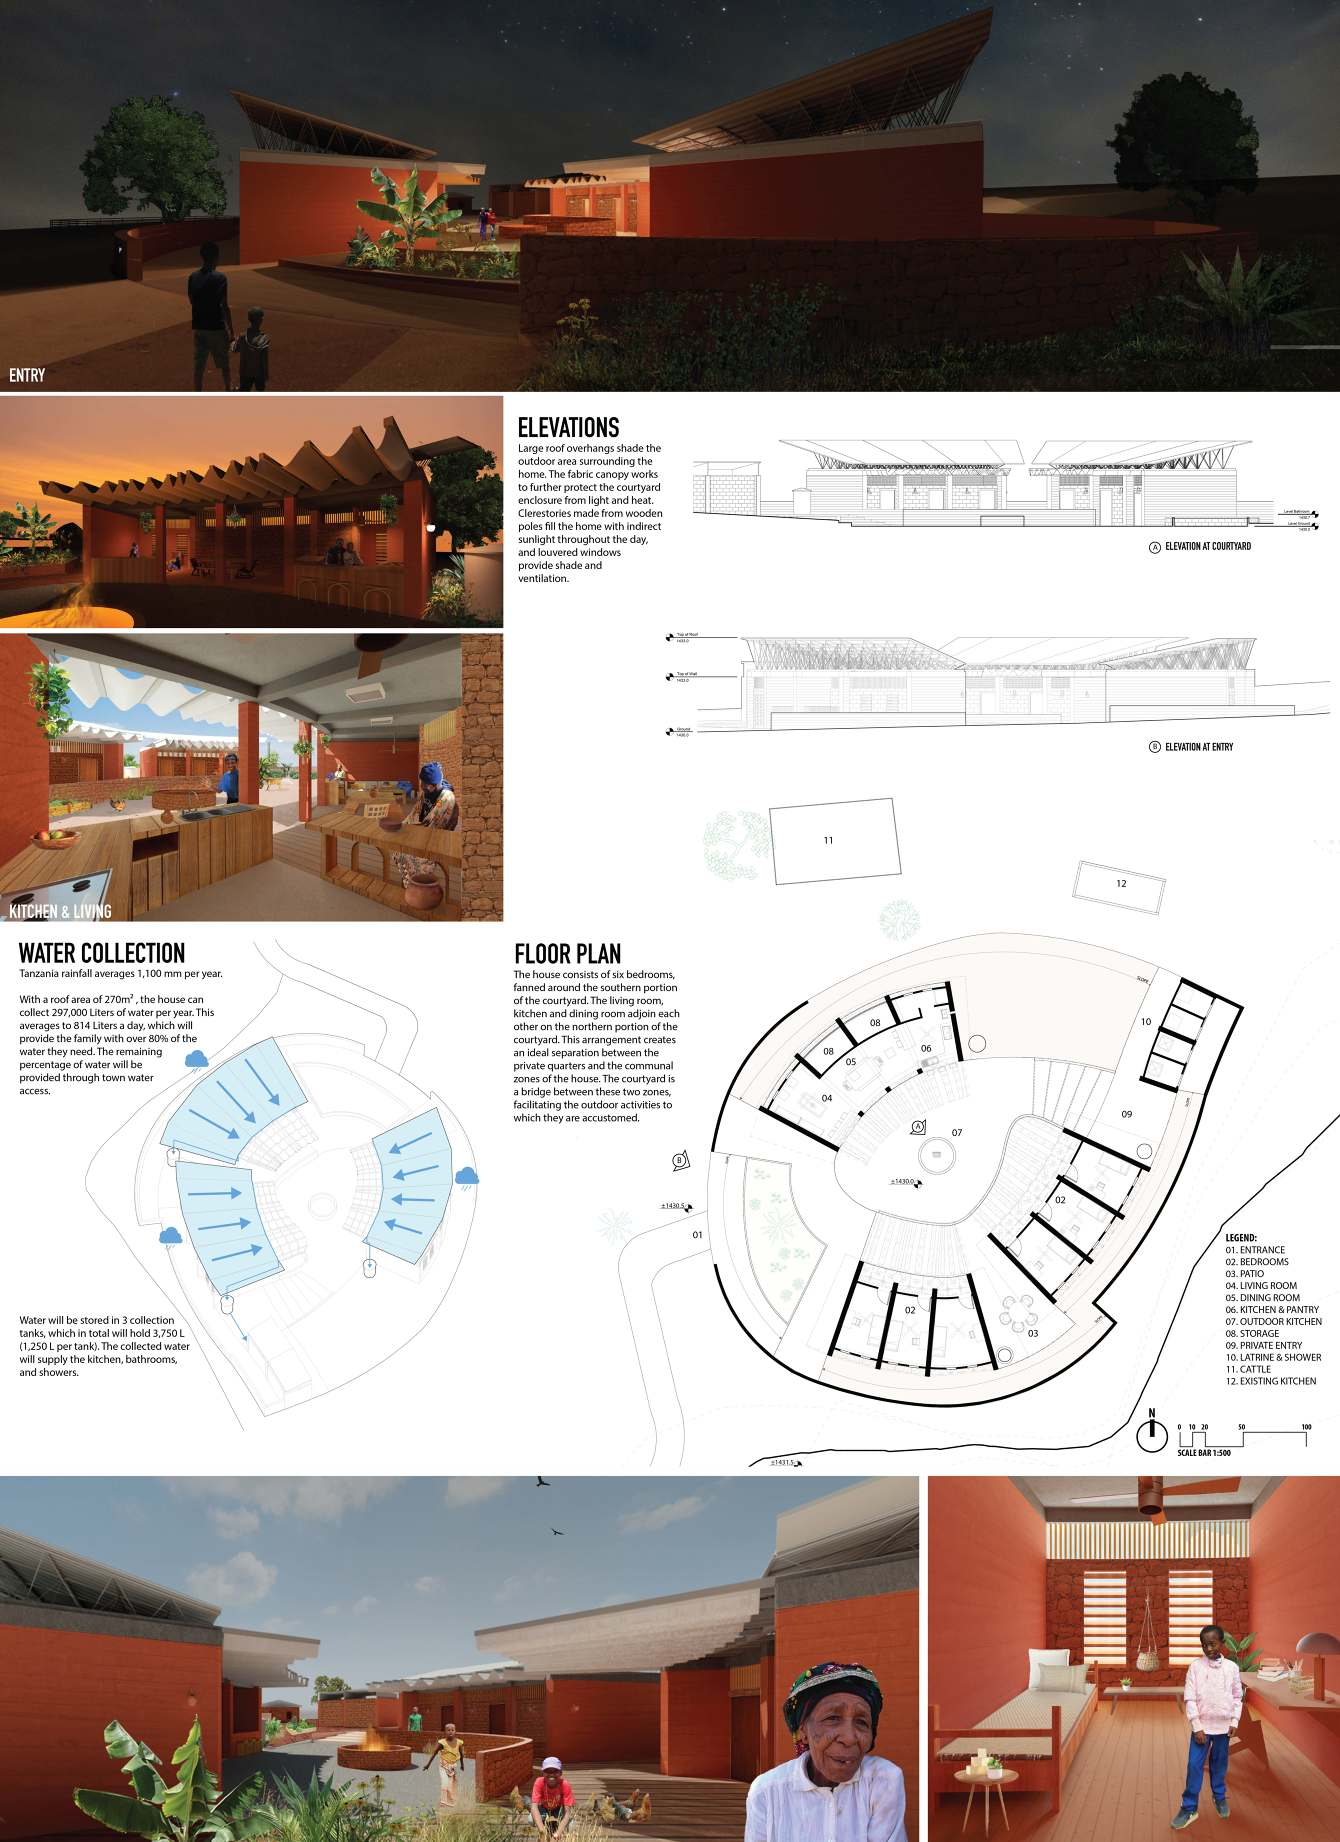
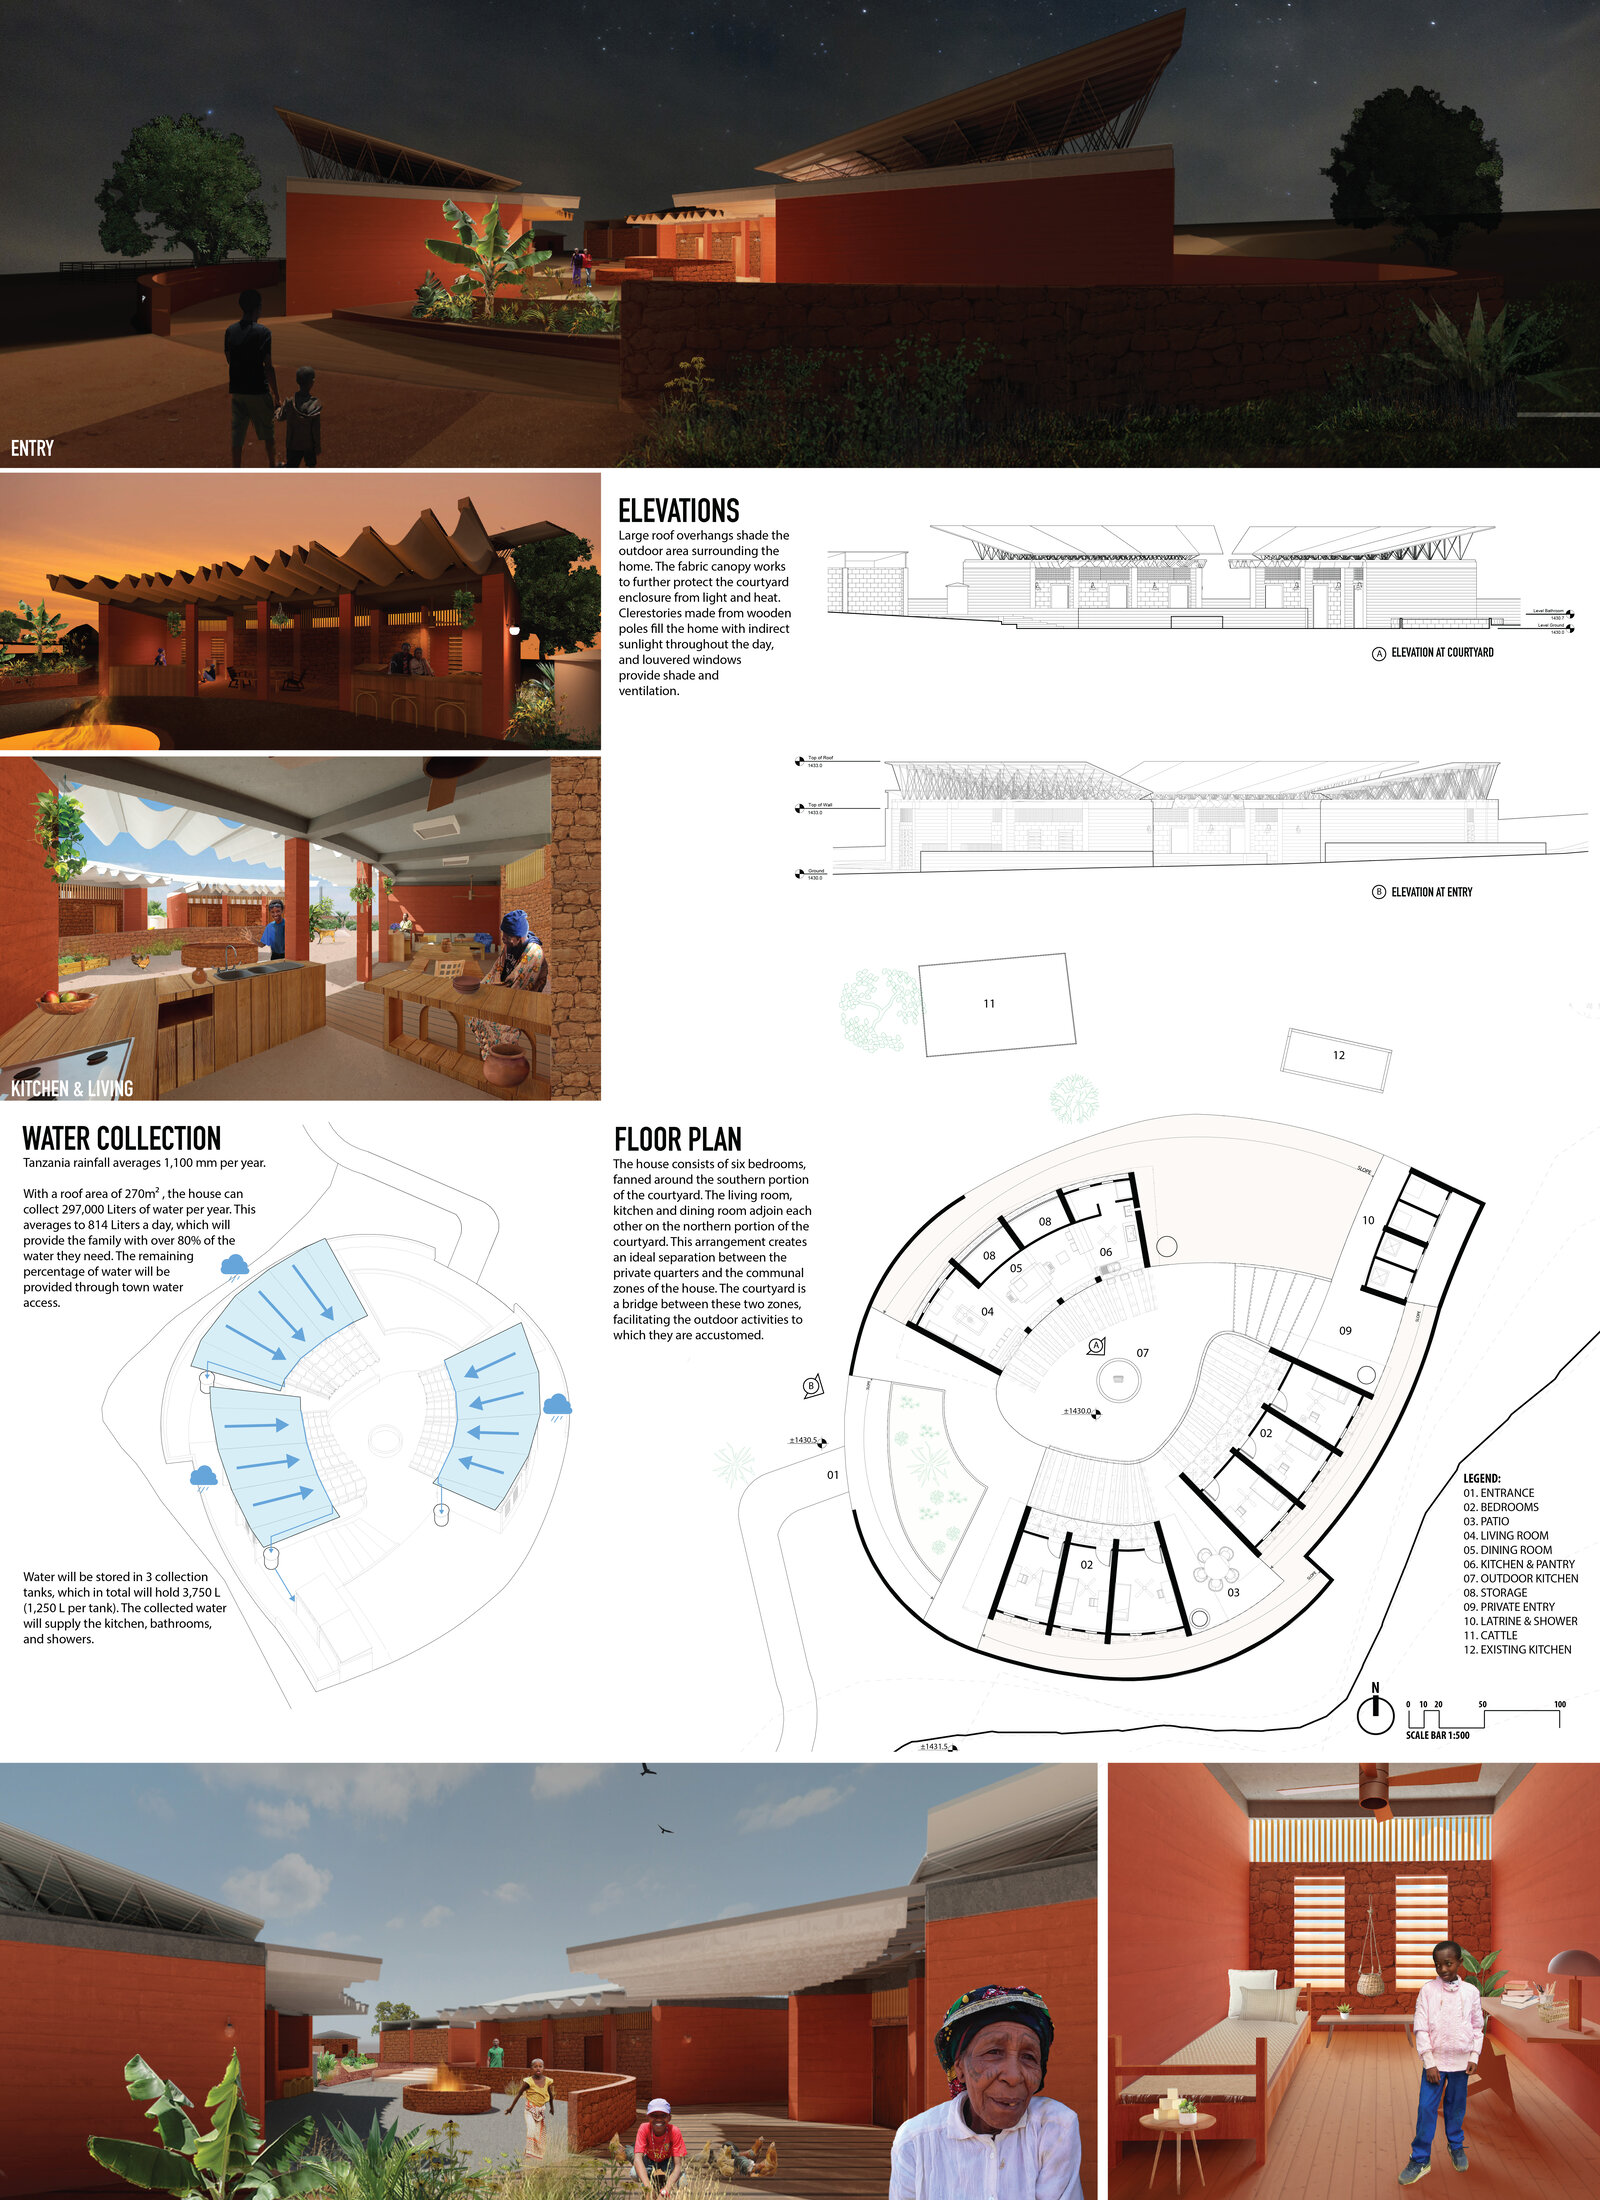
Jorejick Home: full renders and boards; Hotel+: real name, date, program and pro forma from the 2020 proposal

diff --git a/index.html b/index.html
@@ -1199,11 +1199,11 @@
         <a class="home-entry" href="#jorejick" onclick="stackOpen(&apos;jorejick&apos;); return false;">
           <div class="home-image-wrap">
             <div class="home-tag"><span class="num">018</span>Dwelling</div>
-            <img decoding="async" loading="lazy" src="images/vjl/jorejick/cover.jpg" alt="Jorejick Home" onload="this.classList.add('loaded')">
+            <img decoding="async" loading="lazy" src="images/vjl/jorejick/sunset.jpg" alt="Jorejick Home, covered terrace at sunset" onload="this.classList.add('loaded')">
           </div>
           <div class="home-meta">
             <div class="home-meta-name">Jorejick Home</div>
-            <div class="home-meta-loc">Tanzania<span class="sep">/</span>Family compound<span class="sep">/</span>Earth construction<span class="sep">/</span>Rainwater roof</div>
+            <div class="home-meta-loc">Arusha region, Tanzania<span class="sep">/</span>2020<span class="sep">/</span>Competition entry<span class="sep">/</span>Family compound<span class="sep">/</span>Earth construction<span class="sep">/</span>Rainwater roof</div>
           </div>
         </a>
 
@@ -1221,11 +1221,11 @@
         <a class="home-entry" href="#hotel" onclick="stackOpen(&apos;hotel&apos;); return false;">
           <div class="home-image-wrap">
             <div class="home-tag"><span class="num">020</span>Hospitality</div>
-            <img decoding="async" loading="lazy" src="images/vjl/hotel/render.jpg" alt="Hotel for Knowledge Workers" onload="this.classList.add('loaded')">
+            <img decoding="async" loading="lazy" src="images/vjl/hotel/render.jpg" alt="Hotel+, proposed exterior" onload="this.classList.add('loaded')">
           </div>
           <div class="home-meta">
-            <div class="home-meta-name">Hotel for Knowledge Workers</div>
-            <div class="home-meta-loc">East Village, Manhattan<span class="sep">/</span>Hotel repositioning concept<span class="sep">/</span>Industry recovery survey</div>
+            <div class="home-meta-name">Hotel+</div>
+            <div class="home-meta-loc">East Village, Manhattan<span class="sep">/</span>2020<span class="sep">/</span>60 keys<span class="sep">/</span>37K sf as of right<span class="sep">/</span>Development proposal</div>
           </div>
         </a>
 
@@ -1671,18 +1671,30 @@
 
     <div class="project-page" id="jorejick">
       <div class="project-images">
-        <img decoding="async" loading="lazy" src="images/vjl/jorejick/board-1.jpg" alt="Site plan, concept diagram, materials and components" onload="this.classList.add('loaded')">
-        <div class="image-caption">Site plan, concept diagram, materials and components</div>
+        <img decoding="async" loading="lazy" src="images/vjl/jorejick/sunset.jpg" alt="Covered terrace at sunset, folded rainwater roof" onload="this.classList.add('loaded')">
+        <div class="image-caption">Covered terrace at sunset, folded rainwater roof</div>
       </div>
       <div class="project-content">
-        <div class="project-location">Jorejick Home / Tanzania / Family compound</div>
+        <div class="project-location">Jorejick Home / Arusha region, Tanzania / 2020 / Competition entry</div>
         <p class="project-description">A home for the Jorejick family, built of the red earth it stands on. The design reimagines the traditional Iraqw hut for a large family living together in a village of structures around a central point. The hut is scaled up to shelter the whole family and to give the animals separate areas. The roof of the enlarged volume is then inverted to make a surface that collects rainwater.</p>
         <div class="project-role">Scope</div>
         <p class="project-detail">Concept design: site plan, floor plan, elevations, materials and components, water collection strategy and renderings.</p>
       </div>
       <div class="project-images">
-        <img decoding="async" loading="lazy" src="images/vjl/jorejick/board-2.jpg" alt="Elevations, floor plan, water collection and interior views" onload="this.classList.add('loaded')">
-        <div class="image-caption">Elevations, floor plan, water collection and interior views</div>
+        <img decoding="async" loading="lazy" src="images/vjl/jorejick/courtyard.jpg" alt="Central courtyard between the family houses" onload="this.classList.add('loaded')">
+        <div class="image-caption">Central courtyard between the family houses</div>
+        <img decoding="async" loading="lazy" src="images/vjl/jorejick/night.jpg" alt="Compound at night" onload="this.classList.add('loaded')">
+        <div class="image-caption">Compound at night</div>
+        <img decoding="async" loading="lazy" src="images/vjl/jorejick/kitchen.jpg" alt="Kitchen and shared dining" onload="this.classList.add('loaded')">
+        <div class="image-caption">Kitchen and shared dining</div>
+        <img decoding="async" loading="lazy" src="images/vjl/jorejick/bedroom.jpg" alt="Bedroom interior" onload="this.classList.add('loaded')">
+        <div class="image-caption">Bedroom interior</div>
+        <img decoding="async" loading="lazy" src="images/vjl/jorejick/siteplan.jpg" alt="Site plan" onload="this.classList.add('loaded')">
+        <div class="image-caption">Site plan</div>
+        <img decoding="async" loading="lazy" src="images/vjl/jorejick/board-1.jpg" alt="Competition board 1: site plan, concept diagram, materials and components" onload="this.classList.add('loaded')">
+        <div class="image-caption">Competition board 1: site plan, concept diagram, materials and components</div>
+        <img decoding="async" loading="lazy" src="images/vjl/jorejick/board-2.jpg" alt="Competition board 2: elevations, floor plan, water collection and interior views" onload="this.classList.add('loaded')">
+        <div class="image-caption">Competition board 2: elevations, floor plan, water collection and interior views</div>
       </div>
       <div class="next-page"><a href="#cyber-housing" onclick="showPage('cyber-housing')">Cyber Housing &rarr;</a></div>
     </div>
@@ -1716,7 +1728,7 @@
         <img decoding="async" loading="lazy" src="images/vjl/cyber-housing/massing-3.jpg" alt="Massing study, terraced corner" onload="this.classList.add('loaded')">
         <div class="image-caption">Massing study, terraced corner</div>
       </div>
-      <div class="next-page"><a href="#hotel" onclick="showPage('hotel')">Hotel for Knowledge Workers &rarr;</a></div>
+      <div class="next-page"><a href="#hotel" onclick="showPage('hotel')">Hotel+ &rarr;</a></div>
     </div>
 
     <div class="project-page" id="hotel">
@@ -1725,14 +1737,20 @@
         <div class="image-caption">Proposed exterior</div>
       </div>
       <div class="project-content">
-        <div class="project-location">Hotel for Knowledge Workers / East Village, Manhattan / Repositioning concept</div>
-        <p class="project-description">Repositioning concept for an existing corner hotel. The proposal recasts the building for knowledge workers and essential staff, designed to stay open and working through a public health emergency. A survey of which industries were hit hardest, which gained and which would recover first set the program.</p>
+        <div class="project-location">Hotel+ / St. Marks Place and Third Avenue, East Village / July 2020</div>
+        <p class="project-description">Redevelopment proposal to acquire an existing corner hotel and build Hotel+: a six-story, 60-key hotel with a ground-floor restaurant and a rooftop garden, planned to stay open and safe through a public health emergency. The 6,216 sf lot at an FAR of 6 allows 37,296 sf as of right. A survey of which industries were hit hardest, which gained and which would recover first set the program for knowledge workers and essential staff.</p>
         <div class="project-role">Scope</div>
-        <p class="project-detail">Site study, survey design and analysis, program concept and exterior visualization.</p>
+        <p class="project-detail">Site and neighborhood study, zoning analysis, survey design and analysis, massing and a ten-year pro forma: 18-month construction, a 5.25% exit cap rate, a 10.5% levered IRR and a 2.44x equity multiple.</p>
       </div>
       <div class="project-images">
+        <img decoding="async" loading="lazy" src="images/vjl/hotel/massing-1.jpg" alt="Proposed massing, corner view" onload="this.classList.add('loaded')">
+        <div class="image-caption">Proposed massing, corner view</div>
+        <img decoding="async" loading="lazy" src="images/vjl/hotel/massing-2.jpg" alt="Proposed massing, street view" onload="this.classList.add('loaded')">
+        <div class="image-caption">Proposed massing, street view</div>
         <img decoding="async" loading="lazy" src="images/vjl/hotel/site.jpg" alt="Existing building, site outline" onload="this.classList.add('loaded')">
         <div class="image-caption">Existing building, site outline</div>
+        <img decoding="async" loading="lazy" src="images/vjl/hotel/existing.jpg" alt="Existing hotel, St. Marks Place and Third Avenue" onload="this.classList.add('loaded')">
+        <div class="image-caption">Existing hotel, St. Marks Place and Third Avenue</div>
         <img decoding="async" loading="lazy" src="images/vjl/hotel/survey-1.jpg" alt="Survey: industries and sectors most positively impacted" onload="this.classList.add('loaded')">
         <div class="image-caption">Survey: industries and sectors most positively impacted</div>
         <img decoding="async" loading="lazy" src="images/vjl/hotel/survey-2.jpg" alt="Survey: industries expected to recover first" onload="this.classList.add('loaded')">
